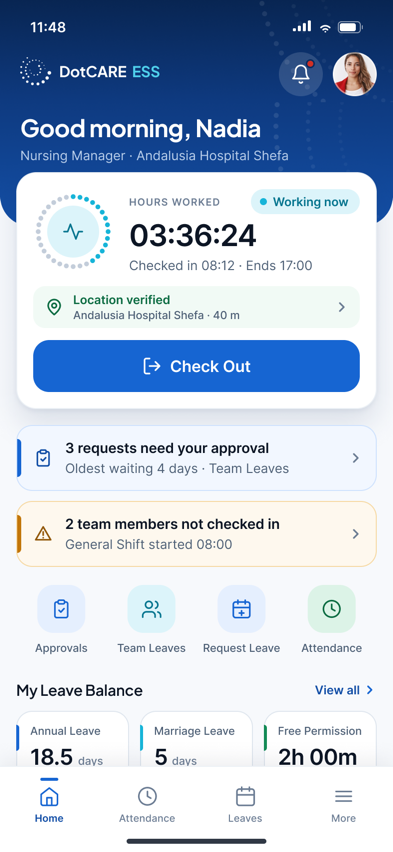
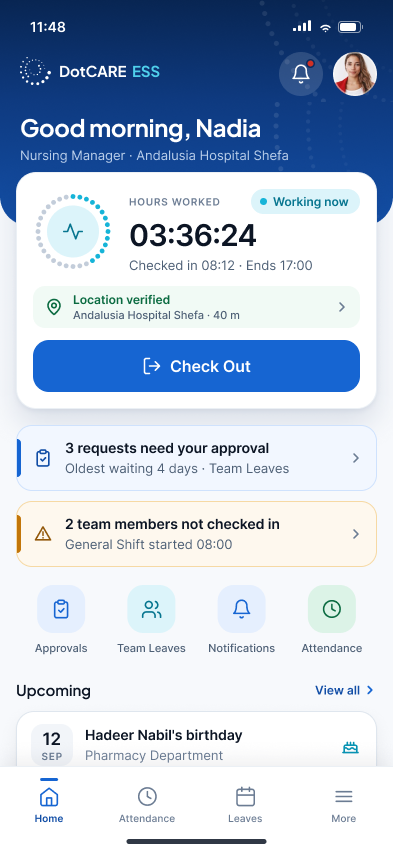
fix: sync DotCare ESS media and lightbox

diff --git a/app/globals.css b/app/globals.css
@@ -1730,6 +1730,29 @@ footer div > p:last-child, footer a { margin-top: 13px; color: var(--muted); fon
   object-fit: contain;
   box-shadow: 0 36px 100px rgba(0,0,0,.55);
 }
+.ess-screen-lightbox {
+  padding: 0;
+  grid-template-rows: auto minmax(0, 1fr);
+  place-items: stretch;
+}
+.ess-screen-lightbox .lightbox-toolbar {
+  position: relative;
+  inset: auto;
+  min-height: 0;
+}
+.ess-screen-lightbox .lightbox-image {
+  width: 100%;
+  max-height: none;
+  min-width: 0;
+  min-height: 0;
+  padding: clamp(12px, 2.2vw, 28px);
+  overflow: hidden;
+}
+.ess-screen-lightbox .lightbox-image img {
+  max-width: 100%;
+  max-height: 100%;
+}
+.ess-screen-lightbox .lightbox-image.mobile img { max-width: min(100%, 390px); }
 .legacy-screen-lightbox { display: block; overflow: auto; }
 .legacy-screen-lightbox .legacy-lightbox-image { max-height: none; display: block; background: #f4f2eb; box-shadow: 0 36px 100px rgba(0,0,0,.55); }
 .legacy-screen-lightbox .legacy-lightbox-image img { width: 100%; max-height: none; box-shadow: none; }
@@ -2043,6 +2066,7 @@ footer div > p:last-child, footer a { margin-top: 13px; color: var(--muted); fon
   .case-study-toolbar { align-items: stretch; flex-direction: column; }
   .case-study-toolbar a { border-left: 0; border-top: 1px solid rgba(23,23,20,.2); text-align: center; }
   .screen-lightbox { padding: 78px 8px 80px; }
+  .ess-screen-lightbox { padding: 0; }
   .lightbox-toolbar { min-height: 62px; padding-inline: 14px; }
   .lightbox-toolbar > div { align-items: flex-start; flex-direction: column; gap: 3px; }
   .lightbox-toolbar button { padding-left: 8px; }

diff --git a/app/work/[slug]/EvidenceMedia.tsx b/app/work/[slug]/EvidenceMedia.tsx
@@ -11,6 +11,7 @@ export default function EvidenceMedia({
   device = "desktop",
   highDensityInline = false,
   eager = false,
+  lightboxClassName = "",
 }: {
   src: string;
   fullSrc?: string;
@@ -20,6 +21,7 @@ export default function EvidenceMedia({
   device?: "desktop" | "tablet" | "mobile" | "drawer";
   highDensityInline?: boolean;
   eager?: boolean;
+  lightboxClassName?: string;
 }) {
   const [isOpen, setIsOpen] = useState(false);
   const enlargedSrc = fullSrc ?? src;
@@ -59,7 +61,7 @@ export default function EvidenceMedia({
 
       {isOpen ? (
         <div
-          className="screen-lightbox"
+          className={`screen-lightbox ${lightboxClassName}`.trim()}
           role="dialog"
           aria-modal="true"
           aria-label={`${title} enlarged screen`}
@@ -76,7 +78,12 @@ export default function EvidenceMedia({
               </button>
             </div>
           </div>
-          <div className={`lightbox-image ${device}`}>
+          <div
+            className={`lightbox-image ${device}`}
+            onClick={(event) => {
+              if (event.target === event.currentTarget) setIsOpen(false);
+            }}
+          >
             <img src={enlargedSrc} alt={`${alt} — enlarged`} />
           </div>
         </div>

diff --git a/app/work/[slug]/DotCareEssCaseStudy.tsx b/app/work/[slug]/DotCareEssCaseStudy.tsx
@@ -19,6 +19,7 @@ function EssScreen({ file, title, alt, className = "" }: EssScreenProps) {
         label="REDESIGN"
         device="mobile"
         highDensityInline
+        lightboxClassName="ess-screen-lightbox"
       />
       <figcaption>{title}</figcaption>
     </figure>
@@ -216,6 +217,7 @@ export default function DotCareEssCaseStudy() {
               title="Attendance card states"
               alt="DotCare ESS Attendance Card component states for check in, working, complete, location unavailable and holiday"
               label="REDESIGN"
+              lightboxClassName="ess-screen-lightbox"
             />
           </article>
           <article>
@@ -225,6 +227,7 @@ export default function DotCareEssCaseStudy() {
               title="Approval step states"
               alt="DotCare ESS Approval Step components showing pending, approved and rejected states"
               label="REDESIGN"
+              lightboxClassName="ess-screen-lightbox"
             />
           </article>
         </div>

diff --git a/app/data/projects.ts b/app/data/projects.ts
@@ -277,7 +277,7 @@ export const projects: Project[] = ([
     evidence: [
       { value: "One action", label: "attendance follows state", detail: "Check In and Check Out never compete; the available action reflects the employee’s current status and location context." },
       { value: "2 roles", label: "one coherent product", detail: "Managers remain employees while approvals, Team Leaves and attention states appear only when responsibility requires them." },
-      { value: "41", label: "production-realistic screens", detail: "Employee, manager, form, decision and exception states are connected in one high-fidelity prototype." },
+      { value: "51", label: "production-realistic screens", detail: "Employee, manager, form, decision and exception states are connected in one high-fidelity prototype." },
       { value: "44px", label: "minimum touch target", detail: "Primary actions and interactive controls remain dependable across attendance, requests and approvals." },
     ],
     chapters: [
